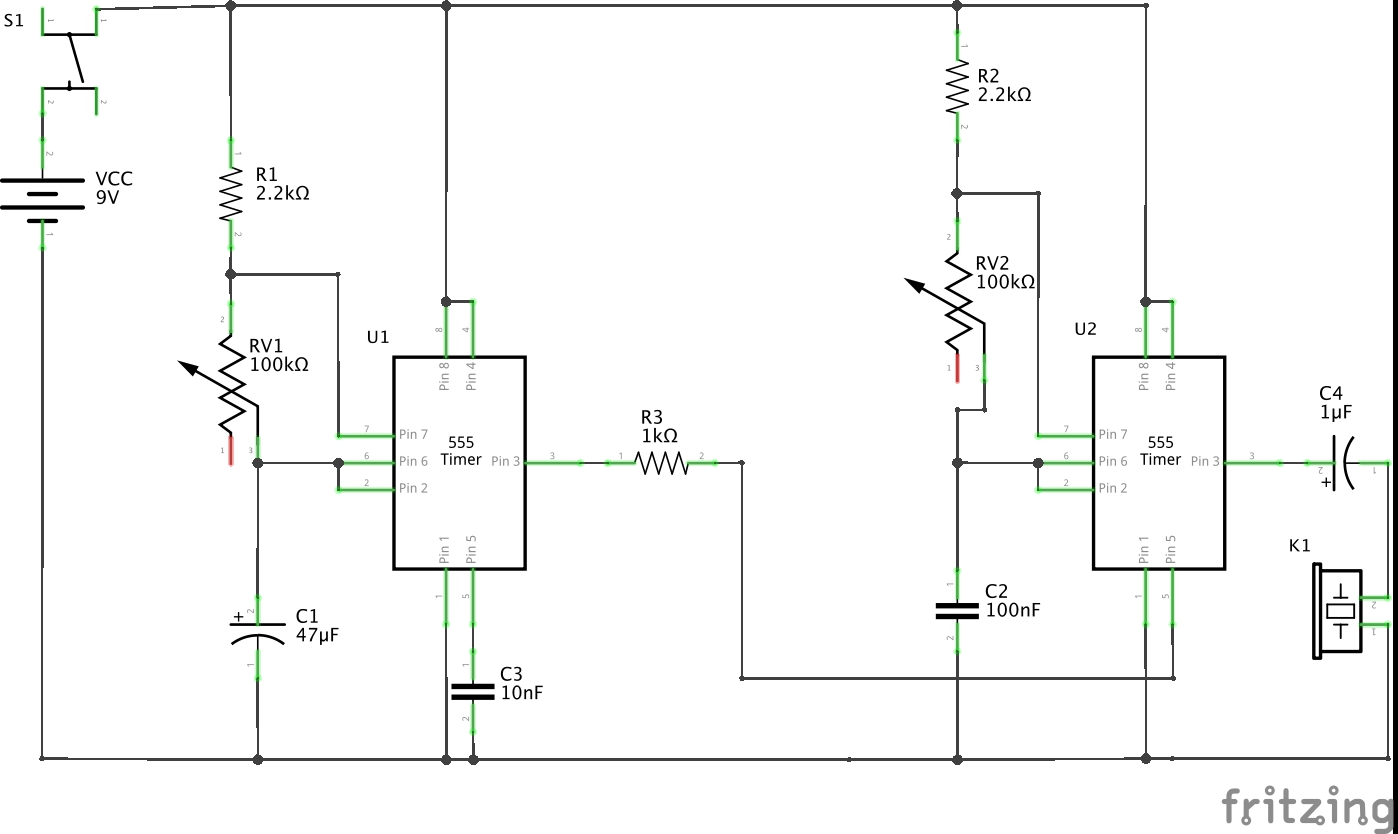
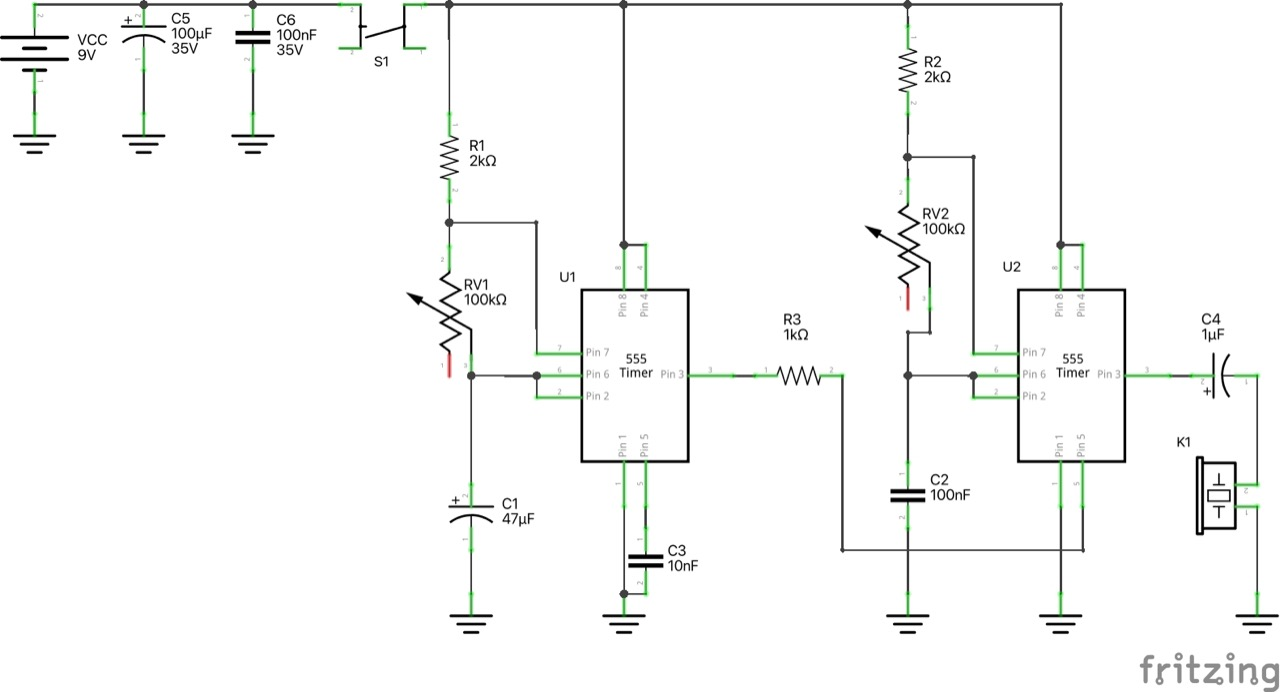
[555Timer/SimpleSiren] update and refresh (#216)
* [555Timer/SimpleSiren] update and refresh

* update circuit refs

* add scope trace legend

diff --git a/Electronics101/555Timer/SimpleSiren/README.md b/Electronics101/555Timer/SimpleSiren/README.md
@@ -1,47 +1,74 @@
 # #045 Simple Siren
 
-Classic timer circuit producing a two-tone oscillation.
+Classic timer circuit producing a two-tone oscillation through control voltage adjustment of the second timer.
+
+![Build](./assets/SimpleSiren_build.jpg?raw=true)
+
+Here's a quick demo..
+
+[![clip](https://img.youtube.com/vi/kUD3gngyH8Y/0.jpg)](https://www.youtube.com/watch?v=kUD3gngyH8Y)
 
 ## Notes
 
-This is a build of a circuit published by [electronicshub](http://www.electronicshub.org/ding-dong-sound-generator-circuit/).
+This circuit uses two 555 timers to create a two-tone siren, sometimes characterised as a "ding dong".
+One can find variations of this circuit in many places, for example:
 
-It is allegedly a "ding dong" bell.. sounds more like a siren to me!
+* [Ding Dong Sound Generator Circuit](https://www.electronicshub.org/ding-dong-sound-generator-circuit/) published by ElectronicsHub.
+* [Police Siren](https://www.talkingelectronics.com/projects/50%20-%20555%20Circuits/50%20-%20555%20Circuits.html#36) on Talking Electronics
+* [Police Siren circuit](https://www.555-timer-circuits.com/police-siren.html) on 555 Timer Circuits.
 
-It operates with two oscillating 555 timers chained together.
+It operates with two oscillating 555 timers chained together:
+
+* the first 555 provides the low frequency oscillation between high and low output states. The frequency is determined by the values of R1, VR1 and C1.
+* The pin 3 output of the first timer switches the control voltage of the second 555 timer, adjusting its frequency.
+* The oscillation of the second 555 drives the output piezo, and the frequency is modified by the control voltage.
+
+### Construction
+
+![Breadboard](./assets/SimpleSiren_bb.jpg?raw=true)
+
+![Schematic](./assets/SimpleSiren_schematic.jpg?raw=true)
+
+![bb_build](./assets/SimpleSiren_bb_build.jpg?raw=true)
+
+### Testing
 
 The first 555 provides the low frequency oscillation between high and low output states. The frequency is determined by the values of R1, VR1 and C1.
-With [R1=2.2kΩ, VR1 at 22kΩ and C1=47μF](https://visual555.tardate.com/?mode=astable&r1=2.2&r2=22&c=47) this runs at 0.7Hz and 52% duty cycle.
+With [R1=2kΩ, VR1 at 10kΩ and C1=47μF](https://visual555.tardate.com/?mode=astable&r1=2&r2=10&c=47) this runs at 1.4Hz and 55% duty cycle.
 
-The pin 3 output of the first time switches the control voltage of the second 555 timer.
-In practice, with R3=1kΩ in place, it switches from 1.57V to 7.06V, as measured with a multimeter.
+The pin 3 output of the first timer switches the control voltage of the second 555 timer.
 
-The oscillation of the second 555 drives the output piezo, and the frequency is modified by the control voltage.
+In practice, with R3=1kΩ in place, the control voltage (`Vcontrol`) is was measured as follows:
 
-    1.57 high
-    7.06 low
+* high `Vcontrol`: 4.80V
+* low `Vcontrol`: 6.64V
+* `VCC`: 9.2V
 
-When Vcontrol = 1.57V, the frequency of the oscillation is 566 Hz - see the [actual calculation on WolframAlpha](https://www.wolframalpha.com/input/?i=f+%3D+1%2F%28+100*10^-9+*+%282200+%2B+22000%29ln%281+%2B+1.57%2F%282+*+%289+-+1.57%29%29%29+%2B+100*10^-9+*+22000+*+ln%282%29+%29)
+When `Vcontrol = 4.80V`, the frequency of the oscillation is 287 Hz - see the [actual calculation on WolframAlpha](https://www.wolframalpha.com/input?i=f+%3D+1%2F%28+100*10%5E-9+*+%282000+%2B+30000%29ln%281+%2B+4.8%2F%282+*+%289.2+-+4.8%29%29%29+%2B+100*10%5E-9+*+30000+*+ln%282%29+%29)
 
-When Vcontrol = 7.06V, the frequency of the oscillation reduces to 248 Hz - see the [actual calculation on WolframAlpha](https://www.wolframalpha.com/input/?i=f+%3D+1%2F%28+100*10^-9+*+%282200+%2B+22000%29ln%281+%2B+7.06%2F%282+*+%289+-+7.06%29%29%29+%2B+100*10^-9+*+22000+*+ln%282%29+%29).
+When `Vcontrol = 6.64V`, the frequency of the oscillation reduces to 211 Hz - see the [actual calculation on WolframAlpha](https://www.wolframalpha.com/input?i=f+%3D+1%2F%28+100*10%5E-9+*+%282000+%2B+30000%29ln%281+%2B+6.64%2F%282+*+%289.2+-+6.64%29%29%29+%2B+100*10%5E-9+*+30000+*+ln%282%29+%29).
 
-The derivation of the fomula considering a control voltage is explained in a
+The derivation of the formula considering a control voltage is explained in a
 [question on EE.SE](http://electronics.stackexchange.com/questions/101530/what-is-the-equation-for-the-555-timer-control-voltage).
 The formula with variables as named in this circuit is:
 
     f = 1/( C2.(R2+VR2)ln(1 + Vcontrol/(2(Vcc - Vcontrol))) + C2.VR2.ln(2) )
 
-### Construction
+In practice, I'm seeing the frequency alternate between around 241 Hz and 275 Hz, as measured on an oscilloscope:
 
-![The Breadboard](./assets/SimpleSiren_bb.jpg?raw=true)
+* CH1 (Yellow): second timer output (pin 3)
+* CH2 (Blue): second timer control voltage (pin 5)
 
-![The Schematic](./assets/SimpleSiren_schematic.jpg?raw=true)
+![scope-lo](./assets/scope-lo.gif)
 
-![Breadboard Build](./assets/SimpleSiren_build.jpg?raw=true)
+![scope-hi](./assets/scope-hi.gif)
 
 ## Credits and References
 
 * [LM555 Datasheet](https://www.futurlec.com/Linear/LM555CN.shtml)
 * [Visual 555 Calculator](https://visual555.tardate.com)
 * [What is the equation for the 555 timer control voltage?](http://electronics.stackexchange.com/questions/101530/what-is-the-equation-for-the-555-timer-control-voltage) - Q&A on EE.SE
-* [Ding Dong Bell Sound Generator](http://www.electronicshub.org/ding-dong-sound-generator-circuit/) - original circuit from electronicshub
+* Reference Circuits:
+    * [Ding Dong Sound Generator Circuit](https://www.electronicshub.org/ding-dong-sound-generator-circuit/) published by ElectronicsHub.
+    * [Police Siren](https://www.talkingelectronics.com/projects/50%20-%20555%20Circuits/50%20-%20555%20Circuits.html#36) on Talking Electronics
+    * [Police Siren circuit](https://www.555-timer-circuits.com/police-siren.html) on 555 Timer Circuits.
